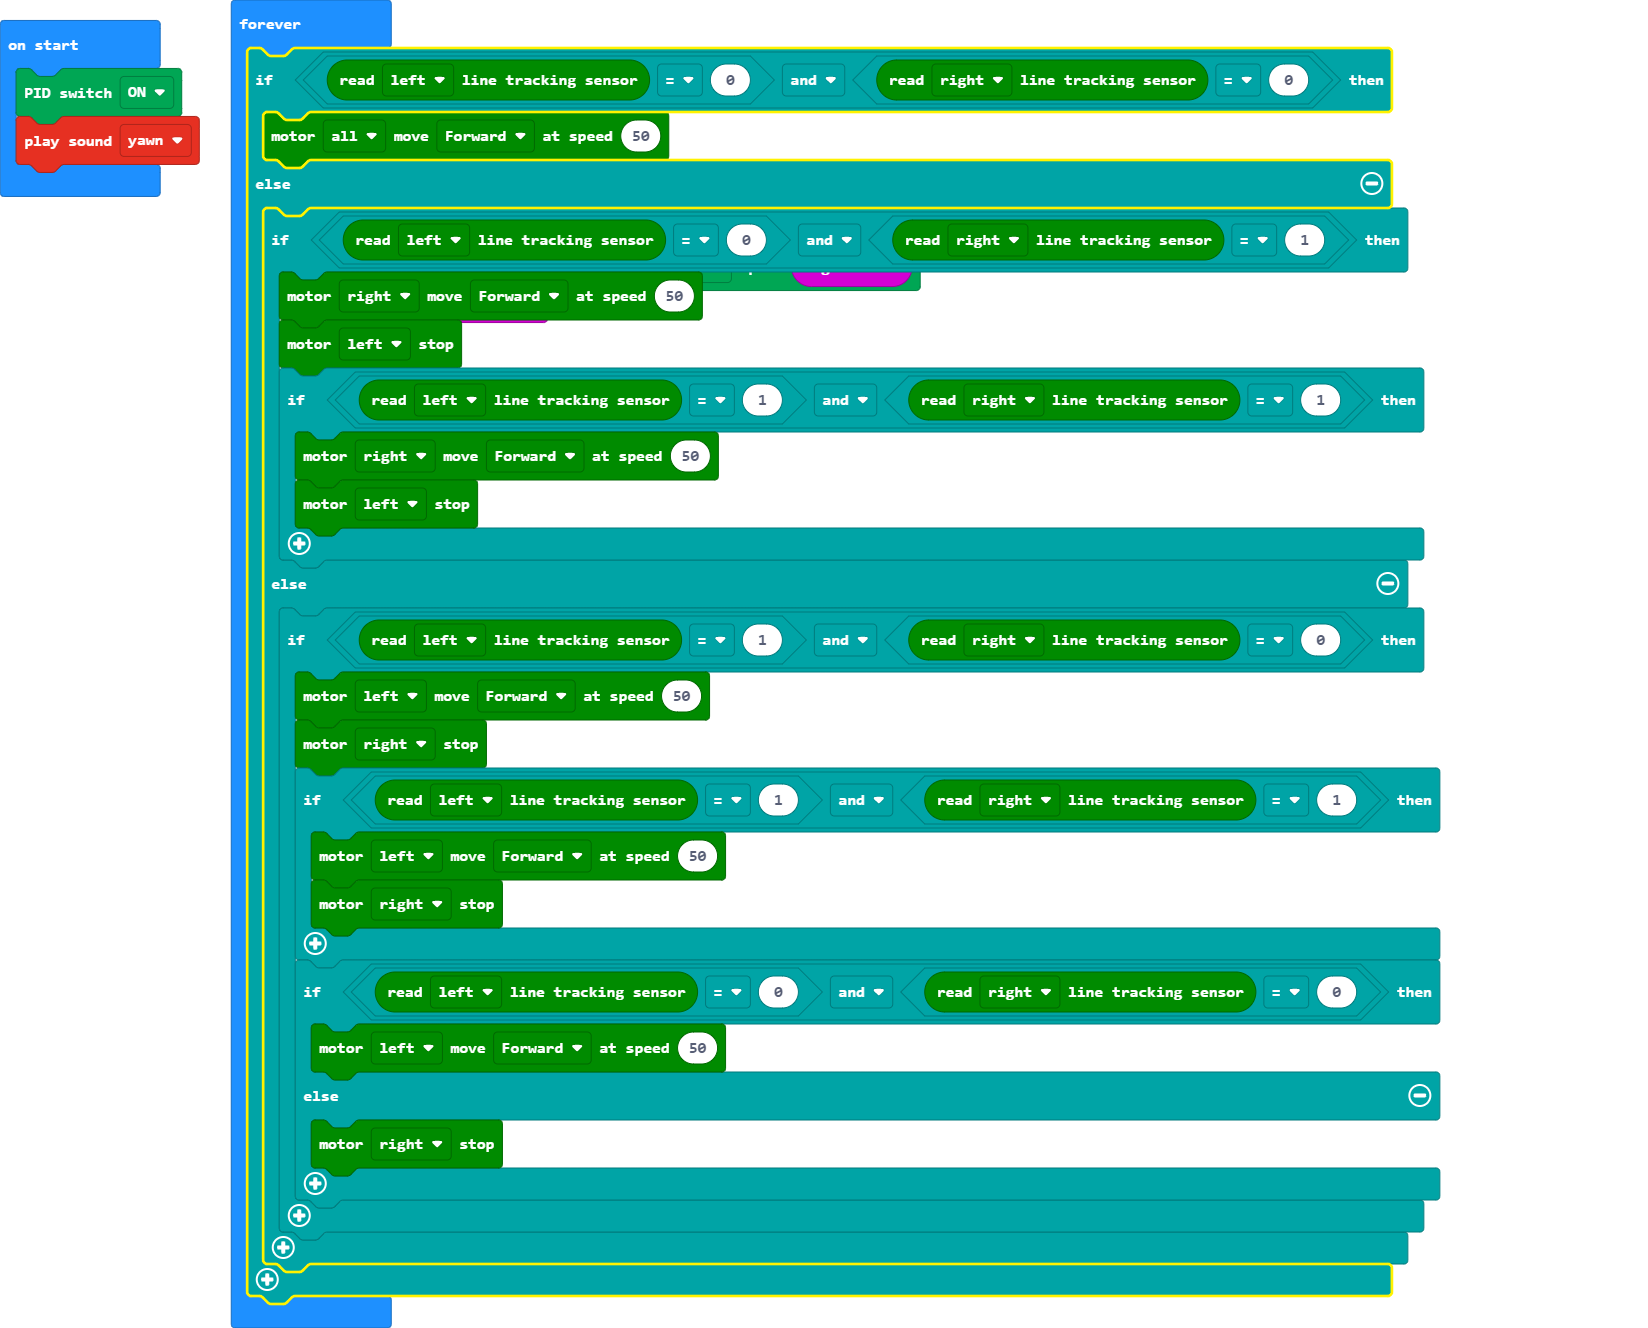
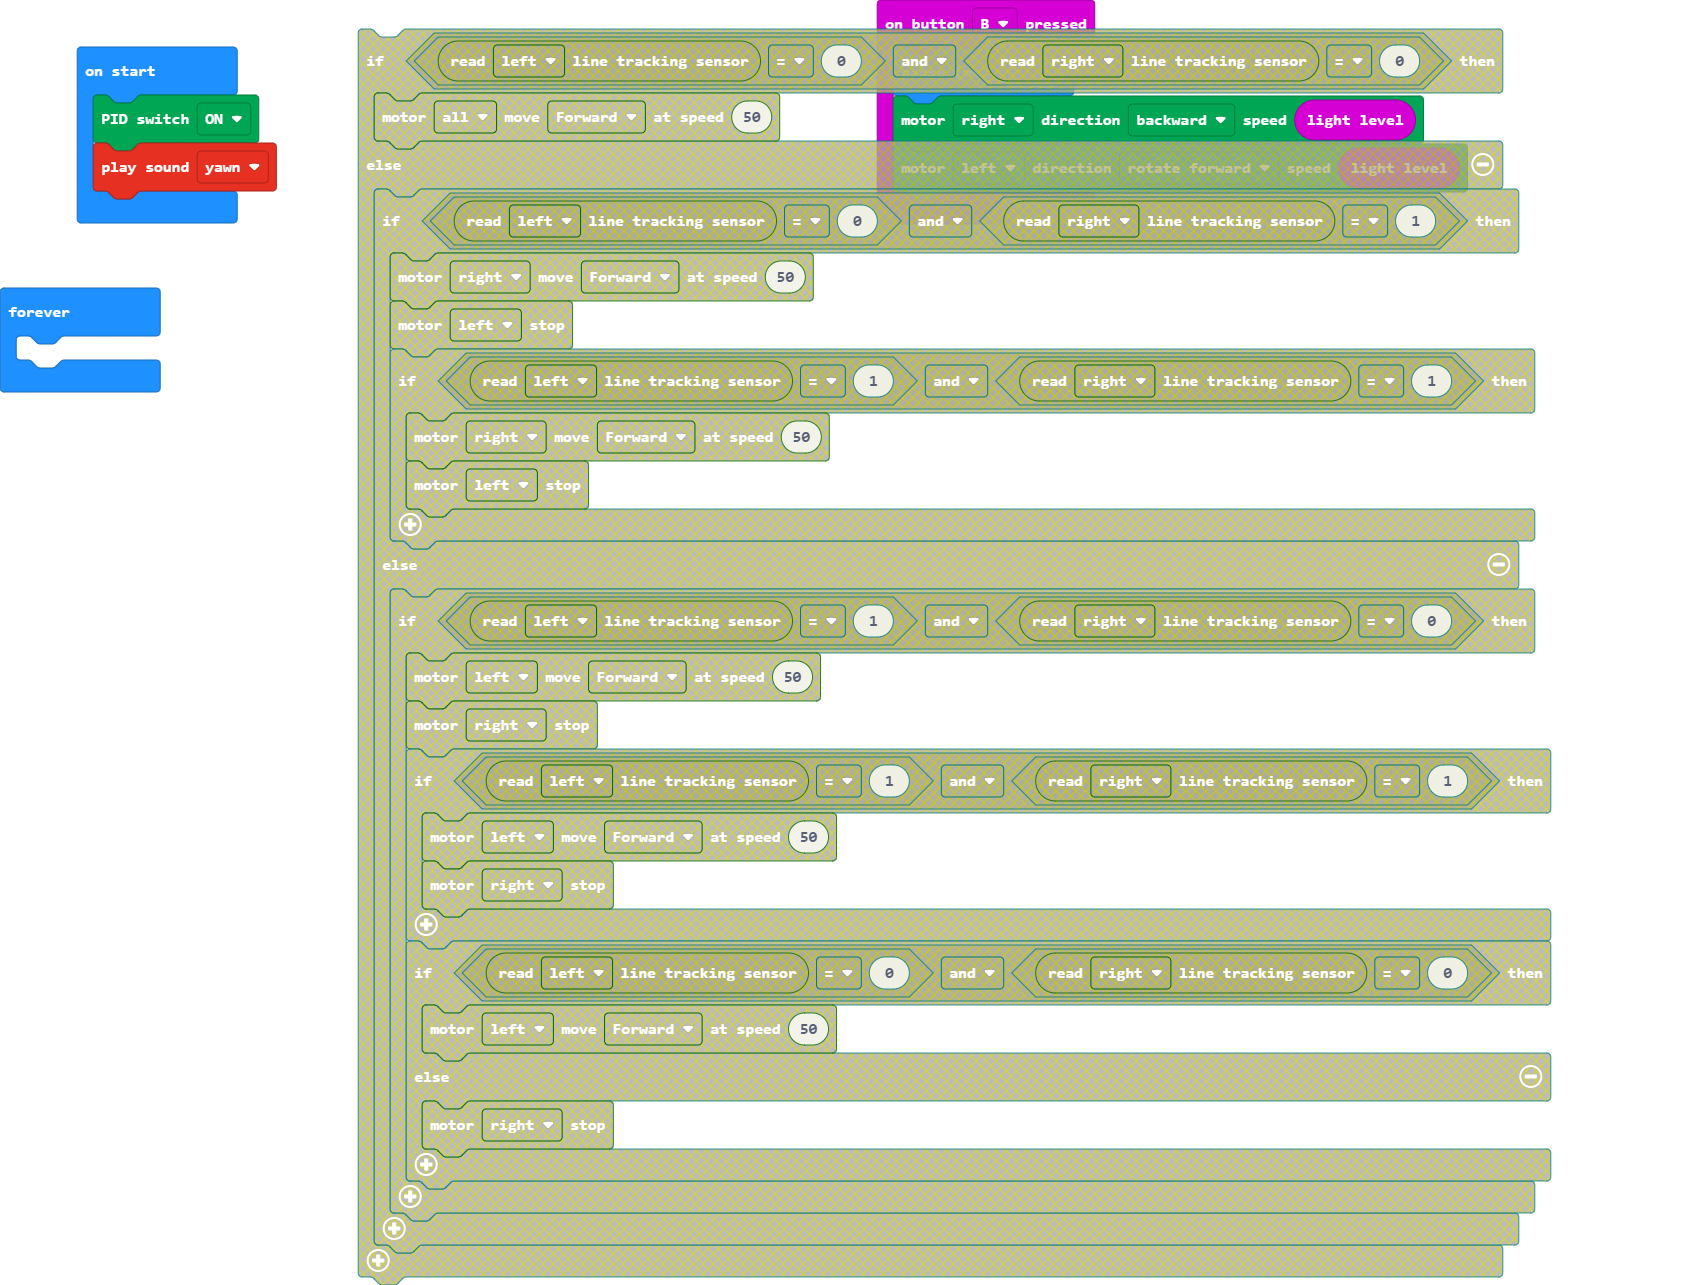
mods

diff --git a/main.ts b/main.ts
@@ -6,30 +6,5 @@ input.onButtonPressed(Button.B, function () {
 DFRobotMaqueenPlus.PID(PID.ON)
 soundExpression.yawn.play()
 basic.forever(function () {
-    if (maqueen.readPatrol(maqueen.Patrol.PatrolLeft) == 0 && maqueen.readPatrol(maqueen.Patrol.PatrolRight) == 0) {
-        maqueen.motorRun(maqueen.Motors.All, maqueen.Dir.CW, 50)
-    } else {
-        if (maqueen.readPatrol(maqueen.Patrol.PatrolLeft) == 0 && maqueen.readPatrol(maqueen.Patrol.PatrolRight) == 1) {
-            maqueen.motorRun(maqueen.Motors.M2, maqueen.Dir.CW, 50)
-            maqueen.motorStop(maqueen.Motors.M1)
-            if (maqueen.readPatrol(maqueen.Patrol.PatrolLeft) == 1 && maqueen.readPatrol(maqueen.Patrol.PatrolRight) == 1) {
-                maqueen.motorRun(maqueen.Motors.M2, maqueen.Dir.CW, 50)
-                maqueen.motorStop(maqueen.Motors.M1)
-            }
-        } else {
-            if (maqueen.readPatrol(maqueen.Patrol.PatrolLeft) == 1 && maqueen.readPatrol(maqueen.Patrol.PatrolRight) == 0) {
-                maqueen.motorRun(maqueen.Motors.M1, maqueen.Dir.CW, 50)
-                maqueen.motorStop(maqueen.Motors.M2)
-                if (maqueen.readPatrol(maqueen.Patrol.PatrolLeft) == 1 && maqueen.readPatrol(maqueen.Patrol.PatrolRight) == 1) {
-                    maqueen.motorRun(maqueen.Motors.M1, maqueen.Dir.CW, 50)
-                    maqueen.motorStop(maqueen.Motors.M2)
-                }
-                if (maqueen.readPatrol(maqueen.Patrol.PatrolLeft) == 0 && maqueen.readPatrol(maqueen.Patrol.PatrolRight) == 0) {
-                    maqueen.motorRun(maqueen.Motors.M1, maqueen.Dir.CW, 50)
-                } else {
-                    maqueen.motorStop(maqueen.Motors.M2)
-                }
-            }
-        }
-    }
+	
 })
